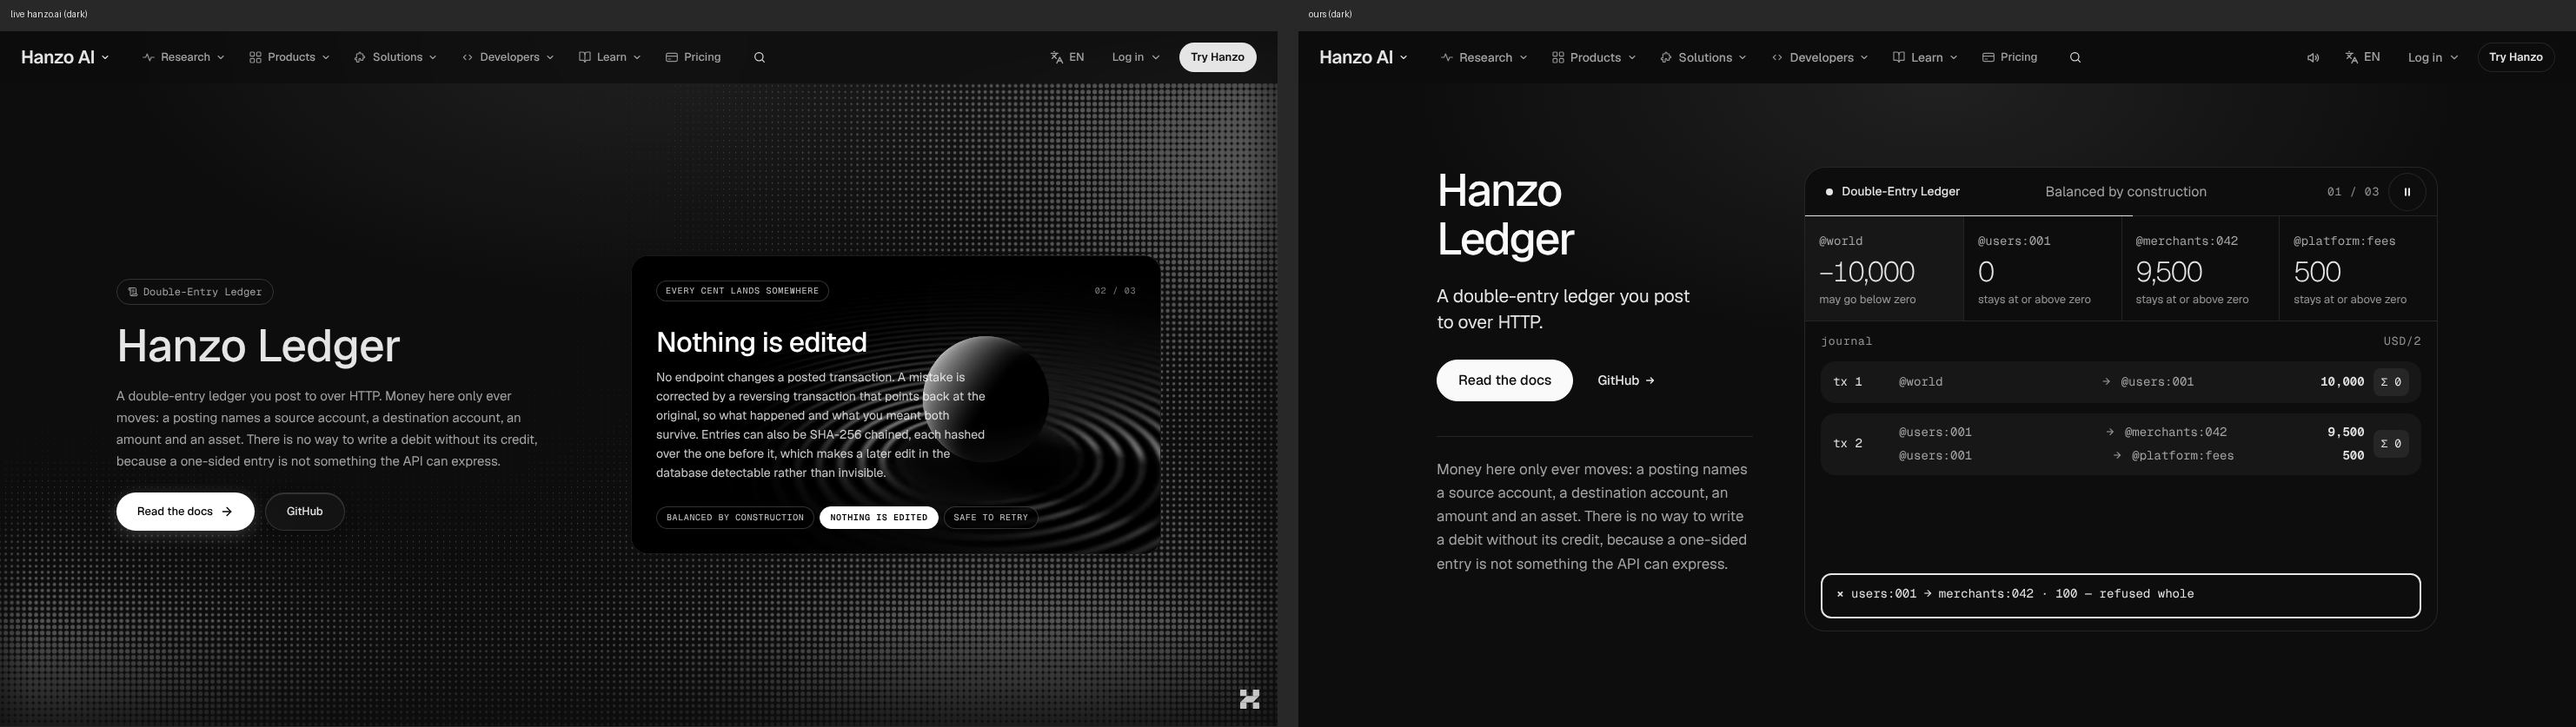
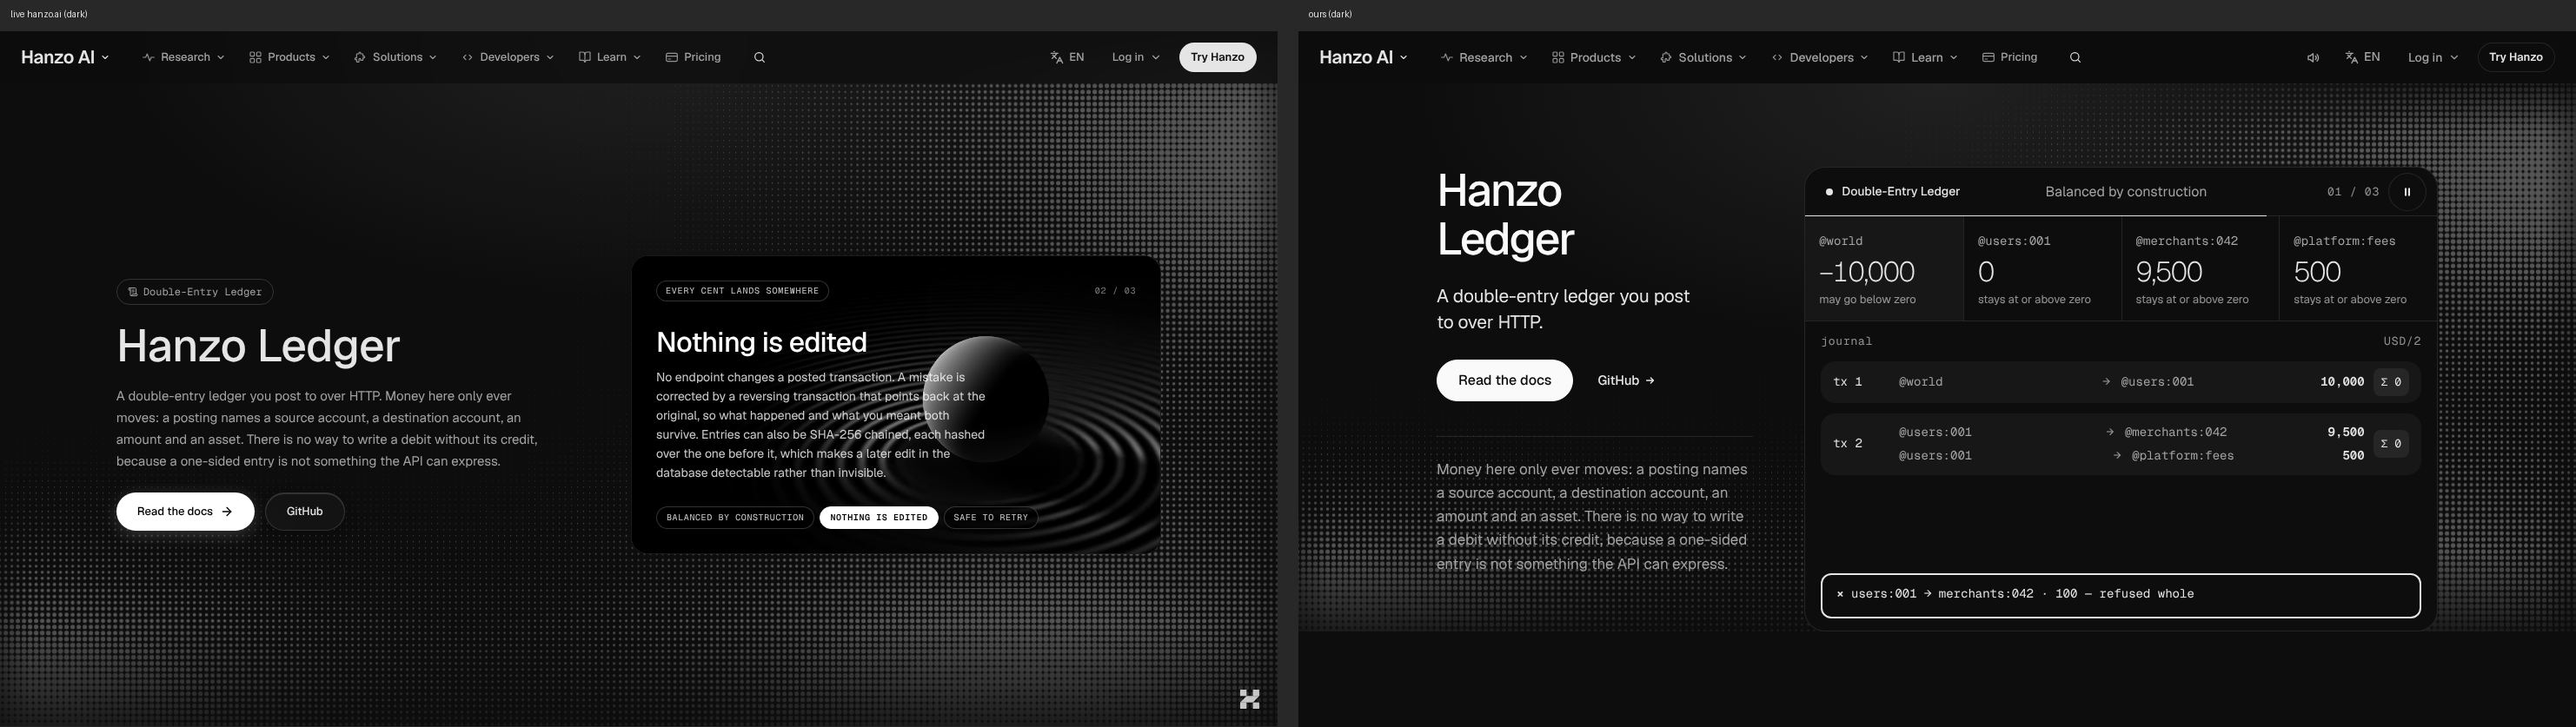
ledger: dark mode — live's hero halftone (HeroDither, dark only) under the hero Co-Authored-By: Claude Opus 5.5 <noreply@anthropic.com> Claude-Session: https://claude.ai/code/session_01P5YBdv7StJZXmK5oNtoxtW

Changed region(s): [[0.8381, 0.1243, 1.0, 0.8387], [0.4966, 0.6523, 0.6829, 0.8698]]

diff --git a/components/pages/apps/Ledger.jsx b/components/pages/apps/Ledger.jsx
@@ -41,6 +41,7 @@ import BizLines from '../../v2/BizLines';
 import BizSheet from '../../v2/BizSheet';
 import { useEntrance, useSkew, useShuffle } from './LedgerEnter';
 import './Ledger.css';
+import HeroDither from '../HeroDither';
 
 const DOCS = 'https://docs.hanzo.ai/docs/cli/books';
 const GH = 'https://github.com/hanzoai';
@@ -199,6 +200,7 @@ function Book() {
 function Hero() {
   return (
     <section className="ld-hero" aria-labelledby="ld-h1">
+      <HeroDither />
       <div className="bz-wrap ld-hero-grid">
         <BizLines as="h1" id="ld-h1" className="bz-display ld-h1" lines={['Hanzo', 'Ledger']} now delay={0.05} />
         <p className="ld-copy"><span className="bz-lede ld-one">A double-entry ledger you post to over HTTP.</span> <span className="bz-body ld-more">Money here only ever moves: a posting names a source account, a destination account, an amount and an asset. There is no way to write a debit without its credit, because a one-sided entry is not something the API can express.</span></p>

diff --git a/docs/review/ledger.md b/docs/review/ledger.md
@@ -2,7 +2,7 @@
 
 Verdict: 7/10
 Ready: 8 Nov, copycheck missing 0 of 41 (live hanzo.ai). The request in "See the request" (the localhost:3068 transactions URL and the postings JSON) was all there but split into syntax-highlight tokens; the highlighted pane is now presentation only (aria-hidden) and the request sits beside it line by line, whole, in a visually hidden copy, so screen readers and the copy check read each line word for word. taste/unique OK; 0 console errors, no overlap at 1470x801 and 375x812. Shared, not this page: BizSheet is not a native dialog; header ask swap is desktop-only (page outlines the phone header ask).
-Dark: 8 Nov, matches live hanzo.ai in dark side by side (docs/gallery/ledger/dark-*.jpg); darkcheck OK, lightcheck OK, copycheck 0. (darkcheck's one remaining item is intended: the split bar's filled part is the page ink, a light fill in dark as live's primary. The Business --bz-* ramp is re-pointed at Hanzo's tokens under html:not(.light) .ld; the two black rooms keep the light ramp. The sheet's code well uses the shared cloud .cf-code.light, which Hanzo's .light rule turns back to light tokens, so the page holds the dark values once on .ld and the well reads them; shared Frame.css untouched. Live's halftone dot field is not drawn: our hero has none in bright mode.)
+Dark: 8 Nov, matches live hanzo.ai in dark side by side (docs/gallery/ledger/dark-*.jpg); darkcheck OK, lightcheck OK, copycheck 0. (darkcheck's one remaining item is intended: the split bar's filled part is the page ink, a light fill in dark as live's primary. The Business --bz-* ramp is re-pointed at Hanzo's tokens under html:not(.light) .ld; the two black rooms keep the light ramp. The sheet's code well uses the shared cloud .cf-code.light, which Hanzo's .light rule turns back to light tokens, so the page holds the dark values once on .ld and the well reads them; shared Frame.css untouched. Live's hero halftone is drawn in dark only (shared HeroDither, Hanzo's own Dither), so bright mode is unchanged.)
 First complaint: "I pressed 'See the request' and the calculator's sitting on top of the panel, and the panel's tucked under the header. Things are overlapping. It's not finished."
 
 Walked: 2026-11-07, 16:58 to 17:20 UTC, dev server on :4180 (warmed with curl first). Desktop 1470x801 with a fine pointer emulated over CDP (`matchMedia('(hover: hover)')` true), video recorded, wheel-scrolled one real screen at a time (801px in 6 steps, then a 0.9 s dwell, then a 1.2 s idle frame diff on every screen). Phone 375x812 (isMobile, hasTouch), scrolled one real screen (812px) at a time with the same dwell and idle diffs. No Pause was pressed during the idle checks. Also: hovered every control and pressed Pause, the capability tabs, the "See the request" sheet (opened, then Esc), the slider and Copy; tapped a journal row, the sheet and a tab on phone; ran a 40-stop Tab crawl; tested 320x700, reduced motion and JS off; measured the first second on three fresh loads; took screenshots of the neighbours /payments and /jin. I sent no forms. I read Ledger.jsx and Ledger.css. Scratch work is in `/tmp/claude-0/-home-user-hanzo-site/6caedeaa-53b0-5e08-a8b1-5e1fef4c9934/scratchpad/ledger-critic/`.
